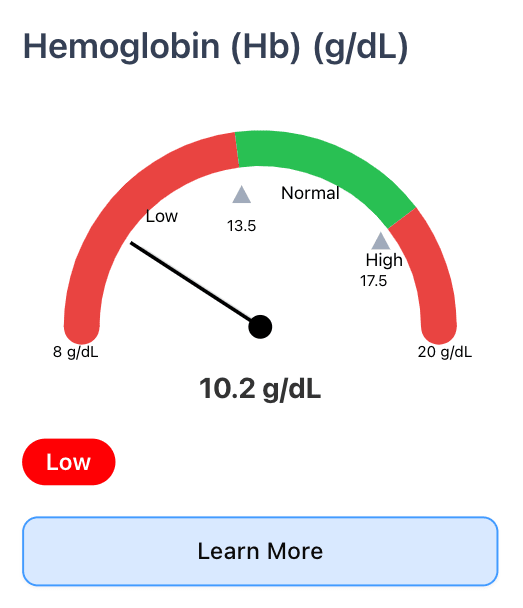
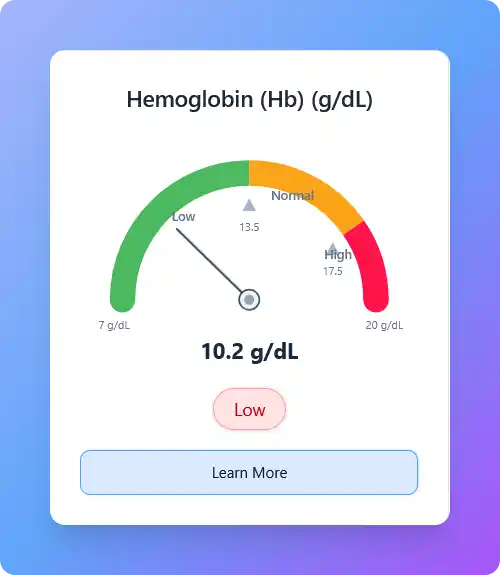
feat: images

diff --git a/features/report-upload/components/FileUploadCard.tsx b/features/report-upload/components/FileUploadCard.tsx
@@ -327,85 +327,90 @@ export function FileUploadCard() {
     }, [files]); // files dependency
 
     const dropzoneOptions: DropzoneOptions = { onDrop, accept: { 'application/pdf': ['.pdf'], 'image/jpeg': ['.jpg', '.jpeg'], 'image/png': ['.png'], 'image/webp': ['.webp'], }, };
-    const { getRootProps, getInputProps, isDragActive } = useDropzone(dropzoneOptions);
+    const { getRootProps, getInputProps, isDragActive, isDragAccept, isDragReject } = useDropzone(dropzoneOptions);
 
     // Calculate count based on uploadStates
     const pendingOrErrorFilesCount = files.filter(f => { const status = uploadStates.get(f.name)?.status; return status === 'pending' || status === 'error'; }).length;
 
     return (
-        <Card className="w-full max-w-2xl mx-auto">
-            <Toaster richColors position="bottom-center" /> {/* Add Toaster */}
-            <CardHeader><CardTitle className="text-center">Upload Medical Reports</CardTitle></CardHeader>
-            <CardContent className="space-y-6">
-                {error && (<Alert variant="destructive"><AlertTitle>Error</AlertTitle><AlertDescription>{error}</AlertDescription></Alert>)}
-                <div {...getRootProps()} className={`flex flex-col items-center justify-center p-12 border-2 border-dashed rounded-lg cursor-pointer transition-colors ${isDragActive ? 'border-primary bg-primary/10' : 'border-gray-300 hover:border-gray-400 bg-white dark:bg-gray-800 dark:border-gray-600 dark:hover:border-gray-500'}`}>
-                    <input {...getInputProps()} />
-                    <UploadCloud className={`w-12 h-12 mb-4 ${isDragActive ? 'text-primary' : 'text-gray-400'}`} />
-                    {isDragActive ? (<p className="text-lg font-semibold text-primary">Drop files here...</p>) :
-                        (<> <p className="text-lg font-semibold text-gray-700 dark:text-gray-300">Drag & drop files, or click</p>
-                            <p className="text-sm text-gray-500 dark:text-gray-400">PDF(Max 10MB), IMG(Max 5MB)</p> </>)}
-                </div>
-
-                {files.length > 0 && (
-                    <div className="space-y-4">
-                        <h3 className="text-lg font-medium">Selected Files:</h3>
-                        <ScrollArea className="h-48 w-full rounded-md border p-4">
-                            <ul className="space-y-3">
-                                {files.map((file, index) => {
-                                    const state = uploadStates.get(file.name); // Get state from map
-                                    return (
-                                        <li key={`${file.name}-${index}`} className="flex items-center justify-between space-x-3"> {/* Simplified key */}
-                                            {/* File Info Div */}
-                                            <div className="flex items-center space-x-2 min-w-0">
-                                                <FileIcon className="w-5 h-5 text-gray-500 flex-shrink-0" />
-                                                <span className="text-sm font-medium truncate flex-1" title={file.name}>{file.name}</span>
-                                                {/* Use check for size display */}
-                                                <span className="text-xs text-gray-400 flex-shrink-0">
-                                                    {typeof file.size === 'number' ? `(${(file.size / 1024 / 1024).toFixed(2)} MB)` : '(Size unavailable)'}
-                                                </span>
-                                            </div>
-                                            {/* Status/Actions Div */}
-                                            <div className="flex items-center space-x-2 flex-shrink-0">
-                                                {state?.status === 'uploading' && (<Progress value={state.progress} className="w-24 h-2" />)}
-                                                {state?.status === 'success' && (<span className="text-xs text-green-600 font-medium">Uploaded</span>)}
-                                                {state?.status === 'error' && (
-                                                    <span className="text-xs text-red-600 font-medium" title={state.errorMessage ?? 'Upload Error'}>Error</span> // Added fallback title
-                                                )}
-                                                {/* Removed redundant error message display span */}
-                                                {/* Remove Button */}
-                                                {(state?.status === 'pending' || state?.status === 'error' || state?.status === 'success') && (
-                                                    <Button variant="ghost" size="icon" className="w-6 h-6"
-                                                        onClick={() => removeFile(file.name)} aria-label={`Remove ${file.name}`} disabled={isProcessing}>
-                                                        <X className="w-4 h-4" />
-                                                    </Button>
-                                                )}
-                                                {/* Cancel Button */}
-                                                {state?.status === 'uploading' && state.source && (
-                                                    <Button variant="ghost" size="icon" className="w-6 h-6"
-                                                        onClick={() => state.source?.abort()}
-                                                        aria-label={`Cancel upload for ${file.name}`}
-                                                        disabled={!isProcessing}
-                                                    >
-                                                        <X className="w-4 h-4 text-red-500" />
-                                                    </Button>
-                                                )}
-                                            </div>
-                                        </li>
-                                    );
-                                })}
-                            </ul>
-                        </ScrollArea>
-                        {/* Bottom Buttons */}
-                        <div className="flex justify-end space-x-3">
-                            <Button variant="outline" onClick={() => { setFiles([]); setUploadStates(new Map()); }} disabled={isProcessing}>Clear All</Button>
-                            <Button onClick={handleUpload} disabled={pendingOrErrorFilesCount === 0 || isProcessing}>
-                                {isProcessing ? 'Processing...' : `Upload ${pendingOrErrorFilesCount} File(s)`}
-                            </Button>
-                        </div>
+        <>
+            {/* Put Toaster at the top level or in layout if used globally */}
+            <Toaster richColors position="top-center" />
+            <Card className="w-full max-w-lg">
+                <CardHeader>
+                    <CardTitle className="text-center">Upload Medical Reports</CardTitle>
+                </CardHeader>
+                <CardContent className="space-y-6">
+                    {error && (<Alert variant="destructive"><AlertTitle>Error</AlertTitle><AlertDescription>{error}</AlertDescription></Alert>)}
+                    <div {...getRootProps()} className={`flex flex-col items-center justify-center p-12 border-2 border-dashed rounded-lg cursor-pointer transition-colors ${isDragActive ? 'border-primary bg-primary/10' : 'border-gray-300 hover:border-gray-400 bg-white dark:bg-gray-800 dark:border-gray-600 dark:hover:border-gray-500'}`}>
+                        <input {...getInputProps()} />
+                        <UploadCloud className={`w-12 h-12 mb-4 ${isDragActive ? 'text-primary' : 'text-gray-400'}`} />
+                        {isDragActive ? (<p className="text-lg font-semibold text-primary">Drop files here...</p>) :
+                            (<> <p className="text-lg font-semibold text-gray-700 dark:text-gray-300">Drag & drop files, or click</p>
+                                <p className="text-sm text-gray-500 dark:text-gray-400">PDF(Max 10MB), IMG(Max 5MB)</p> </>)}
                     </div>
-                )}
-            </CardContent>
-        </Card>
+
+                    {files.length > 0 && (
+                        <div className="space-y-4">
+                            <h3 className="text-lg font-medium">Selected Files:</h3>
+                            <ScrollArea className="h-48 w-full rounded-md border p-4">
+                                <ul className="space-y-3">
+                                    {files.map((file, index) => {
+                                        const state = uploadStates.get(file.name); // Get state from map
+                                        return (
+                                            <li key={`${file.name}-${index}`} className="flex items-center justify-between space-x-3"> {/* Simplified key */}
+                                                {/* File Info Div */}
+                                                <div className="flex items-center space-x-2 min-w-0">
+                                                    <FileIcon className="w-5 h-5 text-gray-500 flex-shrink-0" />
+                                                    <span className="text-sm font-medium truncate flex-1" title={file.name}>{file.name}</span>
+                                                    {/* Use check for size display */}
+                                                    <span className="text-xs text-gray-400 flex-shrink-0">
+                                                        {typeof file.size === 'number' ? `(${(file.size / 1024 / 1024).toFixed(2)} MB)` : '(Size unavailable)'}
+                                                    </span>
+                                                </div>
+                                                {/* Status/Actions Div */}
+                                                <div className="flex items-center space-x-2 flex-shrink-0">
+                                                    {state?.status === 'uploading' && (<Progress value={state.progress} className="w-24 h-2" />)}
+                                                    {state?.status === 'success' && (<span className="text-xs text-green-600 font-medium">Uploaded</span>)}
+                                                    {state?.status === 'error' && (
+                                                        <span className="text-xs text-red-600 font-medium" title={state.errorMessage ?? 'Upload Error'}>Error</span> // Added fallback title
+                                                    )}
+                                                    {/* Removed redundant error message display span */}
+                                                    {/* Remove Button */}
+                                                    {(state?.status === 'pending' || state?.status === 'error' || state?.status === 'success') && (
+                                                        <Button variant="ghost" size="icon" className="w-6 h-6"
+                                                            onClick={() => removeFile(file.name)} aria-label={`Remove ${file.name}`} disabled={isProcessing}>
+                                                            <X className="w-4 h-4" />
+                                                        </Button>
+                                                    )}
+                                                    {/* Cancel Button */}
+                                                    {state?.status === 'uploading' && state.source && (
+                                                        <Button variant="ghost" size="icon" className="w-6 h-6"
+                                                            onClick={() => state.source?.abort()}
+                                                            aria-label={`Cancel upload for ${file.name}`}
+                                                            disabled={!isProcessing}
+                                                        >
+                                                            <X className="w-4 h-4 text-red-500" />
+                                                        </Button>
+                                                    )}
+                                                </div>
+                                            </li>
+                                        );
+                                    })}
+                                </ul>
+                            </ScrollArea>
+                            {/* Bottom Buttons */}
+                            <div className="flex justify-end space-x-3">
+                                <Button variant="outline" onClick={() => { setFiles([]); setUploadStates(new Map()); }} disabled={isProcessing}>Clear All</Button>
+                                <Button onClick={handleUpload} disabled={pendingOrErrorFilesCount === 0 || isProcessing}>
+                                    {isProcessing ? 'Processing...' : `Upload ${pendingOrErrorFilesCount} File(s)`}
+                                </Button>
+                            </div>
+                        </div>
+                    )}
+                </CardContent>
+            </Card>
+        </>
     );
 }
 

diff --git a/app/page.tsx b/app/page.tsx
@@ -7,18 +7,18 @@ import Image from "next/image";
 
 export default function Home() {
   return (
-    <div className="flex flex-col w-full">
+    <div className="flex flex-col min-h-screen w-full">
       <Header />
       {/* Hero Section */}
-      <main className="flex flex-col items-center bg-background text-gray-900 w-full">
+      <main className="flex-grow flex flex-col items-center bg-background text-gray-900 w-full">
         <section className="w-full flex flex-col items-center justify-center px-4 md:px-8 lg:px-12 py-16 md:py-24">
           <div className="w-full max-w-6xl grid grid-cols-1 md:grid-cols-2 gap-12 md:gap-16 items-center">
             <div className="flex flex-col gap-6 items-start">
               <h1 className="text-4xl md:text-5xl lg:text-6xl tracking-tight font-display font-semibold leading-tight dark:text-gray-100">
-                Visualize your <br /> blood work. <br /> <span className="bg-gradient-to-r from-blue-500 to-purple-500 text-transparent bg-clip-text">effortlessly.</span>
+                Finally Understand <br /> Your Blood Work. <br /> <span className="bg-gradient-to-r from-blue-500 to-purple-500 text-transparent bg-clip-text">Instantly.</span>
               </h1>
               <p className="text-lg text-gray-600 dark:text-gray-400 max-w-md tracking-tight">
-                Transform <span className="font-bold">any</span> complex medical reports into clear, visual insights and track your health trends over time.
+                Stop guessing what your lab results mean. Upload <span className="font-bold">any</span> report, see clear visuals, and track your health journey.
               </p>
               <div className="flex flex-col sm:flex-row gap-4 mt-4">
                 <Link href="/new">
@@ -33,18 +33,15 @@ export default function Home() {
                 </Link>
               </div>
               <p className="text-xs text-gray-500 mt-2 flex items-center gap-1">
-                <ShieldCheck size={14} /> End-to-end encrypted & HIPAA compliant options available.
+                <ShieldCheck size={14} /> Encrypted & HIPAA options available.
               </p>
             </div>
 
             {/* Right Column - Image Placeholder */}
             {/* <div className="relative flex items-center justify-center aspect-square bg-white rounded-lg overflow-hidden border">
             </div> */}
-            <div className="relative flex justify-center items-center flex-col gap-4 md:min-w-1/2 h-[50vh] md:h-auto overflow-hidden md:overflow-visible">
-              <Image src="/images/1.webp" alt="Gauges" className="w-1/2 top-0 left-0" width={1000} height={1000} />
-              <Image src="/images/2.webp" alt="Gauges" className="w-1/2 absolute top-[4rem] left-[-7rem]" width={1000} height={1000} />
-              <Image src="/images/3.webp" alt="Gauges" className="w-1/2 absolute top-[20rem] left[0rem]" width={1000} height={1000} />
-              <Image src="/images/4.webp" alt="Gauges" className="w-1/2 absolute top-[12rem] right-[-3rem]" width={1000} height={1000} />
+            <div className="relative flex justify-center items-center flex-col gap-4 md:min-w-1/2 h-[30rem] overflow-hidden md:overflow-visible">
+              <Image src="/images/1.webp" alt="Gauges" className="object-contain w-full h-full" width={1000} height={1000} />
             </div>
           </div>
         </section>
@@ -52,7 +49,7 @@ export default function Home() {
         {/* Problem Statement Section */}
         <section className="w-full bg-gray-50 dark:bg-gray-900 py-16 md:py-24 px-4 md:px-8 lg:px-12 text-center">
           <div className="max-w-3xl mx-auto">
-            <h2 className="text-3xl md:text-4xl font-semibold tracking-tight mb-4 dark:text-gray-100">Tired of Confusing Medical Jargon?</h2>
+            <h2 className="text-3xl md:text-4xl font-semibold tracking-tight mb-4 dark:text-gray-100">Lab Reports Got You Confused?</h2>
             <p className="text-lg text-gray-600 dark:text-gray-400">
               Traditional lab reports are dense, difficult to understand, and make it hard to see your health trends. You deserve clarity.
             </p>
@@ -70,14 +67,13 @@ export default function Home() {
               <ul className="list-disc list-inside text-gray-600 dark:text-gray-400 space-y-1 pl-4">
                 <li>Clear, interactive charts and graphs.</li>
                 <li>Historical trend tracking.</li>
+                <li>AI-powered chat for quick explanations.</li>
                 <li>Explanation of common biomarkers.</li>
                 <li>Secure and private data handling.</li>
               </ul>
             </div>
-            <div className="relative flex items-center justify-center aspect-video bg-gray-100 rounded-lg overflow-hidden shadow-md">
-              <Eye size={48} className="text-gray-400" />
-              <p className="absolute bottom-4 text-xs text-gray-500">Visualization Placeholder</p>
-              {/* Placeholder for screenshot/graphic */}
+            <div className="relative w-72 mx-auto">
+              <Image src="/images/2.webp" alt="Gauges" className="shadow-md rounded-md object-contain relative w-full h-auto" width={500} height={500} />
             </div>
           </div>
         </section>
@@ -85,7 +81,7 @@ export default function Home() {
         {/* Interactive Demo Preview Section */}
         <section className="w-full bg-gray-900 text-white py-16 md:py-24 px-4 md:px-8 lg:px-12 text-center">
           <div className="max-w-4xl mx-auto">
-            <h2 className="text-3xl md:text-4xl font-semibold tracking-tight mb-6">See It In Action</h2>
+            <h2 className="text-3xl md:text-4xl font-semibold tracking-tight mb-6">Explore the Clarity</h2>
             <p className="text-lg text-gray-300 mb-8">
               Experience how easy it is to understand your health data.
             </p>
@@ -126,7 +122,7 @@ export default function Home() {
         {/* CTA Section */}
         <section className="w-full bg-blue-600 text-white py-16 md:py-20 px-4 md:px-8 lg:px-12">
           <div className="max-w-4xl mx-auto text-center">
-            <h2 className="text-3xl md:text-4xl font-semibold tracking-tight mb-6">Ready to Understand Your Health Better?</h2>
+            <h2 className="text-3xl md:text-4xl font-semibold tracking-tight mb-6">Ready for Clearer Health Insights?</h2>
             <p className="text-lg text-blue-100 mb-8">
               Upload your first report securely and see the difference clarity makes.
             </p>
@@ -178,21 +174,20 @@ export default function Home() {
             <strong>Disclaimer:</strong> Hemolyze provides informational insights based on your uploaded data. It is not intended as a substitute for professional medical advice, diagnosis, or treatment. Always seek the advice of your physician or other qualified health provider with any questions you may have regarding a medical condition.
           </div>
         </section>
-
-        {/* Main Footer */}
-        <footer className="w-full bg-gray-900 text-gray-400 py-8 px-4 md:px-8 lg:px-12">
-          <div className="max-w-6xl mx-auto flex flex-col sm:flex-row justify-between items-center text-xs">
-            <p>&copy; {new Date().getFullYear()} Hemolyze. All rights reserved.</p>
-            <div className="flex gap-4 mt-4 sm:mt-0">
-              <Link href="https://github.com/hemolyze/hemolyze" className="hover:text-white">Github</Link>
-              <Link href="/terms" className="hover:text-white">Terms</Link>
-              <Link href="/privacy" className="hover:text-white">Privacy</Link>
-              <Link href="/hipaa" className="hover:text-white">HIPAA</Link>
-            </div>
-          </div>
-        </footer>
-
       </main>
+
+      {/* Replicated Footer */}
+      <footer className="w-full bg-gray-900 text-gray-400 py-8 px-4 md:px-8 lg:px-12">
+        <div className="max-w-6xl mx-auto flex flex-col sm:flex-row justify-between items-center text-xs">
+          <p>&copy; {new Date().getFullYear()} Hemolyze. All rights reserved.</p>
+          <div className="flex gap-4 mt-4 sm:mt-0">
+            <Link href="https://github.com/hemolyze/hemolyze" className="hover:text-white">Github</Link>
+            <Link href="/terms" className="hover:text-white">Terms</Link>
+            <Link href="/privacy" className="hover:text-white">Privacy</Link>
+            <Link href="/hipaa" className="hover:text-white">HIPAA</Link>
+          </div>
+        </div>
+      </footer>
     </div>
   );
 }

diff --git a/entities/report/api/queries.ts b/entities/report/api/queries.ts
@@ -38,11 +38,10 @@ export async function getReportsForSidebar(): Promise<SidebarReportItem[]> {
       >();
 
     // console.log(`getReportsForSidebar (in entities): Found ${reports.length} reports for user ${userId}.`);
-    // @ts-expect-error - Improve types
     const formattedReports: SidebarReportItem[] = reports.map((report) => {
       const displayName = report.title || `Report ${report._id.toString()}`;
       return {
-        id: report._id,
+        id: report._id.toString(),
         name: displayName,
         url: `/reports/${report._id.toString()}`,
         status: report.overallStatus,

diff --git a/shared/components/app-sidebar.tsx b/shared/components/app-sidebar.tsx
@@ -23,7 +23,7 @@ const Logo = () => (
       <path d="M12 2C6.48 2 2 6.48 2 12C2 17.52 6.48 22 12 22C17.52 22 22 17.52 22 12C22 6.48 17.52 2 12 2ZM12 20C7.59 20 4 16.41 4 12C4 7.59 7.59 4 12 4C16.41 4 20 7.59 20 12C20 16.41 16.41 20 12 20Z" fill="currentColor" />
       <path d="M12 12C10.9 12 10 11.1 10 10C10 8.9 10.9 8 12 8C13.1 8 14 8.9 14 10C14 11.1 13.1 12 12 12Z" fill="currentColor" />
     </svg>
-    <span className="font-semibold text-lg text-gray-900">Hemolyze</span>
+    <span className="font-semibold text-lg text-gray-900 dark:text-gray-100">Hemolyze</span>
   </div>
 );
 
